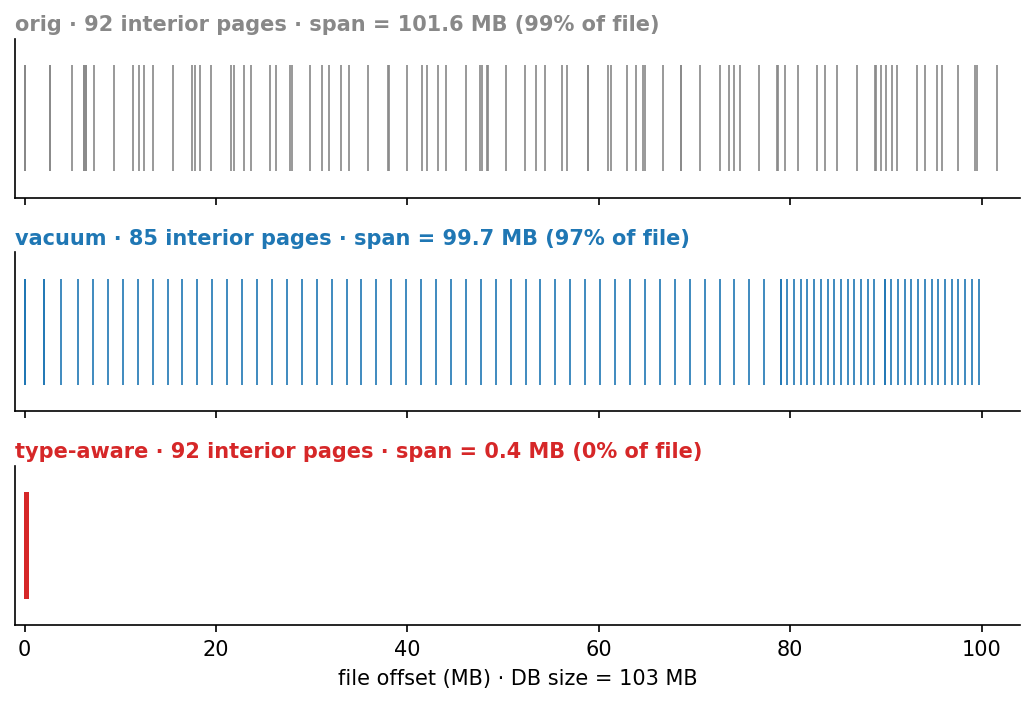
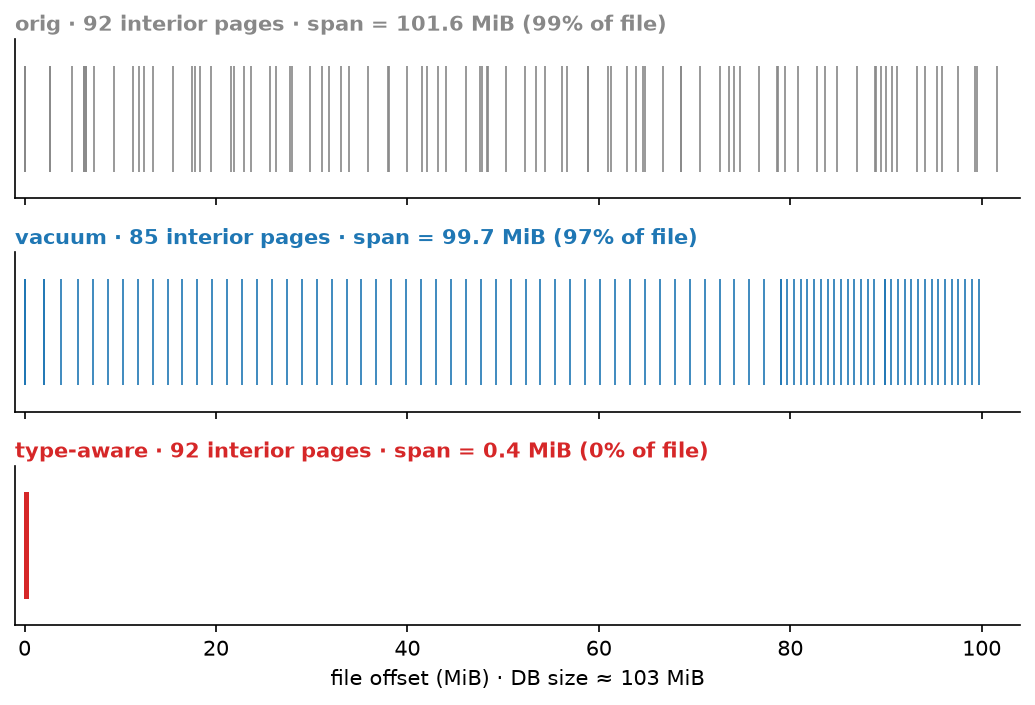
Close numerical-audit TODOs: DB-size units, learned-Markov CI, drift scope
Resolves the three %TODO(audit) markers; wording/notation only, no
measured value changed.

- DB size standardized to binary units (MiB). Setup carries the precise
  anchor 102.9 MiB (107,851,776 bytes); prose uses ~103 MiB. Figure 1
  regenerated from figures/01_page_distribution.py with MiB axis/labels
  so text and figure no longer disagree 102 vs 103. 10x DB stays ~1 GiB.
- Learned-Markov: drop the resolved "worse on Scattered-Zipf" ranking;
  CIs overlap (-40% vs -51%), so state no statistically resolved ranking
  and no demonstrated advantage over frequency ranking. Values unchanged.
- Drift: scope the 10-15% to the Dump fast-path anchor and note that
  individual latency cells can shift more; "Diagnostics associate this
  drift with SSD internal state and CPU thermal conditions."

diff --git a/main.tex b/main.tex
@@ -125,7 +125,7 @@ This paper presents a frugal, non-intrusive SQLite prefetch framework for server
 
 \textbf{Contribution 3: Non-intrusive, deployment-compatible toolchain.} Our framework operates entirely at the application layer using only standard POSIX interfaces (\texttt{mmap}, \texttt{mincore}, \texttt{madvise}). It requires no modification to SQLite, the OS kernel, the FTL, or the serverless runtime, and does not require privileged access or root permissions. These properties make the framework compatible with the execution restrictions of production FaaS environments without requiring platform modification or privileged access. [\textit{Addresses Challenge 3: Deployability.}]
 
-\textbf{Rigorous empirical validation.} We validate our framework across six robustness axes: write churn that perturbs page layout (50k mutations across 11 checkpoints), sub-working-set RAM pressure that triggers page reclaim, multi-process cache sharing with cadence-based re-warm, workload instantiation with 10 independent random seeds and bootstrap 95\% confidence intervals, database scaling by a factor of 10 (102 MB to approximately 1 GiB), and static-plan staleness under a moving read hotspot. We further establish cross-platform effectiveness portability to a genuine FaaS runtime: on Apache OpenWhisk every strongly-effective workstation strategy remains effective (41 of 41 first-query cells) across all 65 covered cells, with per-cell effectiveness ranks correlating at Spearman $\rho\approx0.76$ to $0.81$. This multi-dimensional validation ensures that our headline results are not artifacts of a single workload sample or deployment platform.
+\textbf{Rigorous empirical validation.} We validate our framework across six robustness axes: write churn that perturbs page layout (50k mutations across 11 checkpoints), sub-working-set RAM pressure that triggers page reclaim, multi-process cache sharing with cadence-based re-warm, workload instantiation with 10 independent random seeds and bootstrap 95\% confidence intervals, database scaling by a factor of 10 ($\sim$103 MiB to approximately 1 GiB), and static-plan staleness under a moving read hotspot. We further establish cross-platform effectiveness portability to a genuine FaaS runtime: on Apache OpenWhisk every strongly-effective workstation strategy remains effective (41 of 41 first-query cells) across all 65 covered cells, with per-cell effectiveness ranks correlating at Spearman $\rho\approx0.76$ to $0.81$. This multi-dimensional validation ensures that our headline results are not artifacts of a single workload sample or deployment platform.
 
 Our results reveal a counter-intuitive but robust finding. The strategy that minimizes first-query latency the most, a cache-dump approach that reloads the entire resident working set, regresses end-to-end performance by roughly an order of magnitude on the broad-working-set workloads Scattered-Zipf and Uniform-100K, where its deliver overhead of 0.8 to 7 ms dominates the response time; the narrow small-working-set workload Tail-Mixed is the exception. In contrast, a frugal prefetch of the interior navigation skeleton, with an aggregate footprint under 2 MB, delivers consistent, statistically robust warm-process end-to-end improvements across the evaluated pure-hit workloads, and a small hotspot-conditional leaf budget adds incremental value only where a workload is genuinely skewed. This work is, to the best of our knowledge, the first to separate open, delivery, and first-query terms and align them with integrated and standalone deployment boundaries in SQLite-backed serverless cold starts, with an application-layer design that operates within the execution constraints of restricted FaaS environments without privileged platform changes.
 
@@ -167,7 +167,7 @@ In summary, libprefetch establishes that application-directed prefetching is a p
 
 \subsection{SQLite and mmap: Virtual-Memory Assisted Caching}\label{sec:mmap}
 
-The use of memory-mapped I/O (\texttt{mmap}) in database systems has been the subject of sustained debate over the past decade. Crotty et al. \cite{Crotty2022} deliver a forceful critique of using \texttt{mmap} as a replacement for a traditional DBMS buffer pool. They identify four fundamental problems: transaction atomicity and crash recovery become impossible to guarantee because \texttt{mmap}'s writeback timing is outside DBMS control; I/O behavior becomes unpredictable; error handling is difficult because memory-mapped I/O errors manifest as signals; and performance scalability suffers, particularly on fast NVMe devices where the \texttt{mmap} path cannot match user-space I/O management. Their experimental analysis demonstrates clear performance limitations of \texttt{mmap} relative to user-space I/O control. However, they explicitly note a narrow set of conditions under which \texttt{mmap} is defensible: read-only workloads where the working set fits in memory. Our cold-start prefetch scenario falls squarely within this exception: the first query is read-only, and our reference database (102 MB) is well within main memory on our experimental platform. More broadly, as we demonstrate in Section~\ref{sec:evaluation}, our frugal hotset (under 2 MB) fits comfortably within even the most constrained serverless memory limits. Our cgroup RAM pressure experiments further stress this condition, showing that our targeted hotset maintains 100\% delivery even under sub-working-set memory caps, while cache-dump approaches collapse.
+The use of memory-mapped I/O (\texttt{mmap}) in database systems has been the subject of sustained debate over the past decade. Crotty et al. \cite{Crotty2022} deliver a forceful critique of using \texttt{mmap} as a replacement for a traditional DBMS buffer pool. They identify four fundamental problems: transaction atomicity and crash recovery become impossible to guarantee because \texttt{mmap}'s writeback timing is outside DBMS control; I/O behavior becomes unpredictable; error handling is difficult because memory-mapped I/O errors manifest as signals; and performance scalability suffers, particularly on fast NVMe devices where the \texttt{mmap} path cannot match user-space I/O management. Their experimental analysis demonstrates clear performance limitations of \texttt{mmap} relative to user-space I/O control. However, they explicitly note a narrow set of conditions under which \texttt{mmap} is defensible: read-only workloads where the working set fits in memory. Our cold-start prefetch scenario falls squarely within this exception: the first query is read-only, and our reference database ($\sim$103 MiB) is well within main memory on our experimental platform. More broadly, as we demonstrate in Section~\ref{sec:evaluation}, our frugal hotset (under 2 MB) fits comfortably within even the most constrained serverless memory limits. Our cgroup RAM pressure experiments further stress this condition, showing that our targeted hotset maintains 100\% delivery even under sub-working-set memory caps, while cache-dump approaches collapse.
 
 Critically, our use of \texttt{mmap} is fundamentally different from the DBMS-as-substrate scenario that Crotty et al. critique. We do not use \texttt{mmap} as a buffer pool replacement; SQLite's own pager and B+tree manage transaction semantics, caching, and recovery. Instead, we use \texttt{mmap} exclusively as a lightweight prefetch hint channel: \texttt{mmap} establishes the read-only mapping, \texttt{mincore} queries page residency in the OS page cache, and \texttt{madvise(MADV\_WILLNEED)} issues prefetch hints to the OS. This is an application-layer tool that does not interfere with SQLite's storage management. The \texttt{mmap} path also offers a practical advantage in serverless environments: by avoiding user-space data copying, it reduces memory footprint at a time when every megabyte counts.
 
@@ -217,9 +217,9 @@ Learned prefetch~\cite{Chen2021,Yi2026} & $\checkmark$* & $\times$ & $\times$ \\
 
 \subsection{B+tree Storage and Page Types}\label{sec:btree}
 
-SQLite stores an entire database in a single file, organized internally as fixed-size pages of 4 KB. Each logical table or index corresponds to one B+tree. Pages are classified into two roles: \textit{interior pages} store keys and child pointers, while \textit{leaf pages} contain the actual row data or index entries. The architecture is detailed in the authoritative SQLite evaluation by Gaffney et al.~\cite{Gaffney2022}. In our reference database of 600,000 rows (102 MB), there are 92 interior pages, which is 51 table interior and 41 index interior, totaling 368 KB and 26,239 leaf pages. A subtle but important detail is that SQLite page 1 holds the database header and the root of the \texttt{sqlite\_master} schema B+tree; the root page of each user table is stored in the \texttt{rootpage} field of \texttt{sqlite\_master} and is typically a low page number, not necessarily page 1.
+SQLite stores an entire database in a single file, organized internally as fixed-size pages of 4 KB. Each logical table or index corresponds to one B+tree. Pages are classified into two roles: \textit{interior pages} store keys and child pointers, while \textit{leaf pages} contain the actual row data or index entries. The architecture is detailed in the authoritative SQLite evaluation by Gaffney et al.~\cite{Gaffney2022}. In our reference database of 600,000 rows ($\sim$103 MiB), there are 92 interior pages, which is 51 table interior and 41 index interior, totaling 368 KB and 26,239 leaf pages. A subtle but important detail is that SQLite page 1 holds the database header and the root of the \texttt{sqlite\_master} schema B+tree; the root page of each user table is stored in the \texttt{rootpage} field of \texttt{sqlite\_master} and is typically a low page number, not necessarily page 1.
 
-The structural arithmetic that follows from standard B+tree fanout is simple but consequential: interior pages constitute only 0.35\% of the database (368 KB of 102 MB), yet every query must traverse from root to leaf, and thus every query requires at least the interior pages along its path. For a single point query, only the pages on one root-to-leaf path approximately the tree height, typically 3 to 4 pages must reside in memory. Over a full workload, the accumulated set of interior pages that are visited converges to the complete set of 92. This distinction between a single query's path and the full workload's interior set is critical: it explains why a frugal prefetch can target only a few pages for a specific query, while a workload-aware strategy might need the full interior skeleton. This structural fact is not a novel discovery, it is a direct consequence of B+tree fanout arithmetic but it provides the theoretical foundation for our targeted prefetch approach: the pages that dominate cold-start cost are both few in number and universally required.
+The structural arithmetic that follows from standard B+tree fanout is simple but consequential: interior pages constitute only 0.35\% of the database (368 KB of $\sim$103 MiB), yet every query must traverse from root to leaf, and thus every query requires at least the interior pages along its path. For a single point query, only the pages on one root-to-leaf path approximately the tree height, typically 3 to 4 pages must reside in memory. Over a full workload, the accumulated set of interior pages that are visited converges to the complete set of 92. This distinction between a single query's path and the full workload's interior set is critical: it explains why a frugal prefetch can target only a few pages for a specific query, while a workload-aware strategy might need the full interior skeleton. This structural fact is not a novel discovery, it is a direct consequence of B+tree fanout arithmetic but it provides the theoretical foundation for our targeted prefetch approach: the pages that dominate cold-start cost are both few in number and universally required.
 
 \subsection{Cold-Start Mechanics}\label{sec:coldstart-mechanics}
 
@@ -372,7 +372,7 @@ After cache clearing and before the first query executes, our framework issues \
 
 We organize the strategy space around two independent selection levers. The first lever, \textit{page-type awareness}, exploits the structural invariant of SQLite's B+tree: interior pages are few in number, universally required for any query, and together constitute only 368 KB (0.35\%) of the database. Rather than predicting future accesses from past behavior, we deduce that any query must traverse the interior skeleton, so prefetching these pages eliminates the dominant source of cold-start page faults. The second lever, \textit{access-frequency awareness}, observes which pages are actually resident after a workload warmup via \texttt{mincore} and prioritizes the most frequently accessed leaves. These two levers are complementary: page-type awareness provides coverage for uniform workloads with no natural hot set, while access-frequency awareness unlocks additional gains on skewed workloads where a small number of leaves dominate accesses.
 
-Table~\ref{tab:strategies} defines the strategies we evaluate, grouped by their primary selection lever. The hotset sizes are measured on our reference 102 MB database.
+Table~\ref{tab:strategies} defines the strategies we evaluate, grouped by their primary selection lever. The hotset sizes are measured on our reference $\sim$103 MiB database.
 
 % ---------------------------------------------------------------------------
 % Strategy naming: paper short-name (rendered) <-> internal codename (source only,
@@ -428,10 +428,9 @@ Figure~\ref{fig:layout-distribution} visualizes the physical distribution of the
 \begin{figure}[htbp]
 \centering
 \includegraphics[width=1\linewidth]{figures/01_page_distribution.png}
-\caption{Physical distribution of the 92 interior pages under the three evaluated layouts. The default layout (\texttt{Default}) scatters interiors across the entire 102 MB file. VACUUM (\texttt{Vacuum}) does not improve clustering. The type-aware rewriter (\texttt{Clustered}) clusters all interiors within the first 400 KB of the file.}
+\caption{Physical distribution of the 92 interior pages under the three evaluated layouts. The default layout (\texttt{Default}) scatters interiors across the entire $\sim$103 MiB file. VACUUM (\texttt{Vacuum}) does not improve clustering. The type-aware rewriter (\texttt{Clustered}) clusters all interiors within the first 400 KB of the file.}
 \label{fig:layout-distribution}
 \end{figure}
-%TODO(audit): Fig.~1 axis label rounds DB size to 103 MB while caption/body say 102 MB; both round 102.857 MiB (107,851,776 B). Reconcile axis to 102 MB or caption to 103 MB -- figure regeneration required, not auto-resolvable here. See PAPER_NUMERICAL_AUDIT.md item 2.
 
 It is important to be precise about the role of \texttt{Clustered} in our framework. Clustering interior pages at the file head is a double-edged sword. The benefit is that it enables structural prefetch strategies, such as \texttt{Skel-N}, to cover the critical interior set with a single range hint. The cost is that relocating interiors to the file head pushes leaf pages to higher offsets, which raises the no-prefetch baseline for workloads that are dominated by cold leaf faults. (A production system, \texttt{sqlite\_web\_vfs}'s \texttt{.dbi} side file~\cite{SqliteWebVfs}, sidesteps this displacement by copying navigation-critical pages rather than reordering them in place; we return to this in Section~\ref{sec:eval-attribution}.) In our Scattered-Zipf/Uniform-100K/Tail-Mixed workload matrix, the best end-to-end performance consistently occurs with the default layout (\texttt{Default}) combined with access-pattern prefetching (\texttt{Skel} or \texttt{Skel+K}); \texttt{Clustered} does not outperform \texttt{Default} in any measured cell. The type-aware layout is therefore a negative result under our workloads, useful only in the narrow scenario where prefetching will definitely be deployed, structural targeting is the only available mechanism (for example, when no access-pattern observation is possible), and the workload is sufficiently skewed that the interior prefetch gain outweighs the leaf-offset penalty. We provide the full per-cell comparison and the precise net-win conditions in Section~\ref{sec:evaluation}. This honest assessment aligns with the framing in Section~\ref{sec:contribution}, where we introduced the layout rewriter as a design alternative we evaluated and found to be negative, rather than as a recommended deployment default.
 
@@ -449,7 +448,7 @@ All experiments run on a single bare-metal commodity machine: an AMD Ryzen 9950X
 
 \subsection{Reference Database}\label{sec:refdb}
 
-All experiments use a fixed reference database with a single table, \texttt{items(id INTEGER PRIMARY KEY, k1 INTEGER, k2 INTEGER, payload BLOB(100))}, and a secondary index on \texttt{(k1, k2)}. The database contains 600,000 rows, occupies approximately 102 MB, and uses 4 KB pages. The page composition, including the 92 interior pages and 26,239 leaf pages, is detailed in Section~\ref{sec:btree}. Three layout variants share the same logical content but differ in physical page arrangement: the default layout (\texttt{Default}) and the type-aware layout (\texttt{Clustered}) each contain 26,331 pages; the \texttt{VACUUM} layout (\texttt{Vacuum}) contains 25,613 pages. A 10$\times$ scaled variant with 6,000,000 rows and 263,991 pages ($\sim$1 GiB) is used in the size-scaling experiments (Section~\ref{sec:evaluation}).
+All experiments use a fixed reference database with a single table, \texttt{items(id INTEGER PRIMARY KEY, k1 INTEGER, k2 INTEGER, payload BLOB(100))}, and a secondary index on \texttt{(k1, k2)}. The database contains 600,000 rows, occupies 102.9 MiB (107{,}851{,}776 bytes), and uses 4 KB pages. The page composition, including the 92 interior pages and 26,239 leaf pages, is detailed in Section~\ref{sec:btree}. Three layout variants share the same logical content but differ in physical page arrangement: the default layout (\texttt{Default}) and the type-aware layout (\texttt{Clustered}) each contain 26,331 pages; the \texttt{VACUUM} layout (\texttt{Vacuum}) contains 25,613 pages. A 10$\times$ scaled variant with 6,000,000 rows and 263,991 pages ($\sim$1 GiB) is used in the size-scaling experiments (Section~\ref{sec:evaluation}).
 
 \subsection{Workloads}\label{sec:workloads}
 
@@ -692,8 +691,7 @@ Two prior-art arms cited in Section~\ref{sec:related} remain, each isolating a d
 
 \textbf{Delivery order (libprefetch).} The competitive baselines above vary the prefetch \emph{set} at a fixed delivery order; the core contribution of libprefetch~\cite{VanDeBogart2009} is the opposite, varying delivery \emph{order} (C-LOOK offset sorting) at a fixed set. We reproduce it as an ordering-only comparison: two arms deliver the identical $\sim$18\,MB working set (whose sorted-order page set is identical to \texttt{Dump}), one in ascending file-offset order (\texttt{LP-sorted}), one shuffled (\texttt{LP-shuf}). On NVMe the ordering penalty survives only in the deliver term: synchronous \texttt{pread} delivery is $10$ to $16\times$ slower shuffled than sorted ($15.6\times$ Scattered-Zipf, $15.1\times$ Uniform-100K, $10.5\times$ Tail-Mixed), hundreds of milliseconds of avoidable serialized transfer. First-query latency is essentially unchanged between the two orderings (a warm control: both arms deliver the same pages); the entire ordering effect falls in the deliver term, orders of magnitude larger than any first-query difference. The penalty is specific to synchronous \texttt{pread}, which serializes the transfer; asynchronous \texttt{fadvise} dispatch, which only hands the kernel a hint, shows no ordering effect (deliver ratio $\approx 1.0$ on all three workloads). Without a block-level trace we make no device-mechanism claim beyond this synchronous/asynchronous split. libprefetch is thus orthogonal to our set-selection contribution: a delivery-scheduling optimization whose only NVMe residue is a deliver-term cost that leaves first-query latency untouched.
 
-%TODO(audit): L692 comparative "worse on Scattered-Zipf (-40% vs -51%)" -- the 95% CIs OVERLAP (learned [-43.2,-36.0] vs same-budget freq/hot-leaf [-65.5,-35.7]). By the paper's OWN overlapping-CI tie rule this is a statistical TIE, not "worse". Author decision needed to soften. See PAPER_NUMERICAL_AUDIT.md item 1. (NEEDS_QUALIFICATION; numbers themselves PASS.)
-\textbf{Learned page-transition prefetching (Chen lineage).} The second arm is a learned prefetcher in the lineage of Chen et al.~\cite{Chen2021}: a first-order Markov page-transition model that computes finite-horizon expected page visits from the B$^+$tree root and prefetches the top-$N$. We evaluate it under leave-one-seed-out (LOSO) cross-validation across the 10 workload seeds (train on nine, test on the held-out seed) so no test trace informs its own prefetch set. At matched footprint it reduces cold first-query latency by $-39.6\%$ (Scattered-Zipf), $-36.6\%$ (Uniform-100K), and $-65.4\%$ (Tail-Mixed), a $-37\%$ to $-69\%$ range across cells with every 95\% CI excluding zero, at $100\%$ delivery on verified-cold caches. It ties footprint-matched frequency ranking and targeted prefetch on Uniform-100K and Tail-Mixed (overlapping CIs) but is worse on Scattered-Zipf ($-40\%$ versus $-51\%$ for same-budget frequency-ranked and hot-leaf arms): the learned transition model does not beat plain frequency ranking where the access distribution is broad, and matches it where the distribution is concentrated. (An earlier single-fold analysis reported a more optimistic held-out figure; the honest LOSO mean supersedes it.) These two arms therefore reinforce the broader lesson: neither delivery-order scheduling nor a learned transition model outperforms a small, soundly-selected prefetch set.
+\textbf{Learned page-transition prefetching (Chen lineage).} The second arm is a learned prefetcher in the lineage of Chen et al.~\cite{Chen2021}: a first-order Markov page-transition model that computes finite-horizon expected page visits from the B$^+$tree root and prefetches the top-$N$. We evaluate it under leave-one-seed-out (LOSO) cross-validation across the 10 workload seeds (train on nine, test on the held-out seed) so no test trace informs its own prefetch set. At matched footprint it reduces cold first-query latency by $-39.6\%$ (Scattered-Zipf), $-36.6\%$ (Uniform-100K), and $-65.4\%$ (Tail-Mixed), a $-37\%$ to $-69\%$ range across cells with every 95\% CI excluding zero, at $100\%$ delivery on verified-cold caches. It ties footprint-matched frequency ranking and targeted prefetch on Uniform-100K and Tail-Mixed (overlapping CIs). On Scattered-Zipf, the learned model reaches about $-40\%$, compared with roughly $-51\%$ for the same-budget frequency-ranked and hot-leaf arms; their confidence intervals overlap, so we do not claim a statistically resolved ranking. Importantly, the learned transition model provides no demonstrated advantage over the simpler frequency-ranked baseline. (An earlier single-fold analysis reported a more optimistic held-out figure; the honest LOSO mean supersedes it.) These two arms therefore reinforce the broader lesson: neither delivery-order scheduling nor a learned transition model outperforms a small, soundly-selected prefetch set.
 
 We now return to the physical layout rewriter (\texttt{Clustered}) introduced in Section~\ref{sec:layout}. Our evaluation finds no scenario in which \texttt{Clustered} outperforms the default layout (\texttt{Default}) when combined with access-pattern prefetching. The best warm e2e on each workload is achieved with \texttt{Default} plus access-pattern targeting: Scattered-Zipf 452 \textmu s vs \texttt{Clustered} 523 \textmu s, Uniform-100K 509 \textmu s vs \texttt{Clustered} 701 \textmu s, and (from the tie-break-corrected batch) Tail-Mixed \texttt{Skel+10} 265 \textmu s vs \texttt{Clustered} 317 \textmu s. Each orig-vs-\texttt{Clustered} pair is same-batch; the Tail-Mixed pair uses the corrected \texttt{tiebreak\_fix} values (orig $-75\%$, \texttt{Clustered} $-63\%$). The type-aware layout produces slightly larger percentage improvements for structural prefetching (on Scattered-Zipf, \texttt{Skel-92} first-query goes from $-30\%$ to $-32\%$), but this is an artifact: the pread first-query floor under \texttt{Clustered} is 187 \textmu s versus 187 \textmu s under \texttt{Default}; the larger percentage stems entirely from a raised baseline (523 to 658 \textmu s, $+26\%$), not from a lower absolute latency. Clustering interiors at the file head pushes leaves to higher offsets, raising the cold-leaf-fault baseline; the absolute benefit of interior prefetching does not improve. Notably, a production system arrives at the same conclusion from the
 opposite direction: the \texttt{.dbi} side file (Section~\ref{sec:layout}) avoids in-place reordering entirely, sidestepping precisely the displacement penalty we quantify here. The narrow conditions under which \texttt{Clustered} could be net-positive, (i) prefetching is definitely deployed, (ii) only structural prefetching is available (no access-pattern observation), and (iii) the workload is sufficiently skewed, are not simultaneously met in any of our Scattered-Zipf/Uniform-100K/Tail-Mixed cells. We therefore recommend the default layout (\texttt{Default}) for production use, and treat \texttt{Clustered} as a negative result under our evaluated workloads.
@@ -743,7 +741,7 @@ The methodological lesson from the 10-seed sweep is that single-workload point e
 
 \textbf{Cadence and MAP\_SHARED.} With \texttt{mmap(MAP\_SHARED)}, a single prefetch operation benefits all processes sharing the same OS page cache. A background warmer re-warms the hotset at a configurable cadence. At cadence values of 1 s and 5 s, first-query latency is maintained at 26 \textmu s and 29 \textmu s, respectively; at 30 s or never, it regresses to 281--305 \textmu s, near the no-prefetch baseline. The cadence is a trade-off parameter: reducing cadence maintains warmth at the cost of additional I/O and CPU overhead; increasing cadence saves resources but allows the cache to cool. There is no single best cadence; the operator selects a point on the frontier based on the workload's query interval.
 
-\textbf{Database size scaling.} We scale the reference database by $10\times$ to $\sim$1 GiB (6 million rows, 263,991 pages) and rerun the experiment on a separate batch. The first-query improvement is size-robust: across the 18 (workload $\times$ strategy) cells, all cells show the same direction of improvement as on 102 MB, and all 1 GiB cells are robust (CI excludes zero). The warm-process e2e sensitivity is concentrated on Tail-Mixed for dump-style strategies: \texttt{Dump} goes from $-9\%$ on 102 MB to $+139\%$ on 1 GiB, and \texttt{Skel+500} goes from $-31\%$ to $+35\%$, as the resident working set for Tail-Mixed expands from 483 to 984 pages, doubling the deliver cost. In contrast, the tie-break-unaffected interior skeleton \texttt{Skel} remains a robust win on Tail-Mixed at both sizes, and the size story is carried by the deliver-cost trend rather than by any corrected leaf-selector magnitude: the cache-dump deliver trap worsens with database size while frugal skeleton prefetch stays effective. (The pre-fix \texttt{Skel+10} figures of $-70\%$/$-68\%$ at 102~MB/1~GiB are diagnostic only; the corrected leaf-selector magnitude was not re-validated across sizes.) The corresponding figure is available in our artifact.
+\textbf{Database size scaling.} We scale the reference database by $10\times$ to $\sim$1 GiB (6 million rows, 263,991 pages) and rerun the experiment on a separate batch. The first-query improvement is size-robust: across the 18 (workload $\times$ strategy) cells, all cells show the same direction of improvement as on $\sim$103 MiB, and all 1 GiB cells are robust (CI excludes zero). The warm-process e2e sensitivity is concentrated on Tail-Mixed for dump-style strategies: \texttt{Dump} goes from $-9\%$ on $\sim$103 MiB to $+139\%$ on 1 GiB, and \texttt{Skel+500} goes from $-31\%$ to $+35\%$, as the resident working set for Tail-Mixed expands from 483 to 984 pages, doubling the deliver cost. In contrast, the tie-break-unaffected interior skeleton \texttt{Skel} remains a robust win on Tail-Mixed at both sizes, and the size story is carried by the deliver-cost trend rather than by any corrected leaf-selector magnitude: the cache-dump deliver trap worsens with database size while frugal skeleton prefetch stays effective. (The pre-fix \texttt{Skel+10} figures of $-70\%$/$-68\%$ at $\sim$103~MiB/1~GiB are diagnostic only; the corrected leaf-selector magnitude was not re-validated across sizes.) The corresponding figure is available in our artifact.
 
 \subsection{Cross-Platform Effectiveness Portability}\label{sec:eval-portability}
 
@@ -862,8 +860,7 @@ Three principles summarize the takeaways. First, the cache-dump strategy (\textt
 
 All experiments run on a single commodity x86 machine with a consumer-grade Gen4 NVMe SSD and a single Linux kernel version. Absolute microsecond latencies depend on the hardware, kernel, and runtime. The cost-accounting methodology is intended to transfer to platforms sharing the same warm-process, cold-data model. Whether the relative ordering of strategies carries over to a genuine FaaS runtime is an empirical question we test directly with an Apache OpenWhisk deployment (Section~\ref{sec:eval-portability}). Across every workstation--OpenWhisk cell we cover (65 of 65), the relative effectiveness ordering is preserved: every strategy that is strongly effective on the workstation (relative first-query reduction $R_{\text{ws}}\ge0.30$) is also effective under OpenWhisk (41 of 41 first-query cells), and the two platforms' per-cell effectiveness ranks correlate at Spearman $\rho\approx0.76$ to $0.81$. This is a relative-effectiveness result, accounted without pooling across seven immutable deployment campaigns; the OpenWhisk standalone paired first-query is a deployment-feasibility and relative-effectiveness signal, not an absolute strategy-performance estimate. In particular, our measurements characterize the local-storage tier that production object-storage architectures interpose as a cache layer (e.g., Cloudflare D1's local-disk caching over R2~\cite{CloudflareD1}); the purely remote tier replaces the OS page cache with VFS-level range requests, changing the mechanism while preserving the dependent-fault-chain structure and multiplying per-fault cost by three to four orders of magnitude. This FaaS-runtime validation runs on a separate commodity x86 host with its own consumer NVMe and a different Linux kernel, so it exercises the container-based runtime together with its host rather than isolating the runtime dimension or establishing hardware portability. A small number of per-cell disagreements (9 of 55 first-query cells) involve strategies that are neutral on at least one platform---including the single strategy that is harmful under OpenWhisk, \texttt{Skel-5} on Hashed-Hotspot, which is itself workstation-neutral and therefore not a regression of a workstation-effective strategy---and a few position-sensitive cells are reported as balanced-batch descriptive estimates reflecting pair-position and short-lived execution-storage state rather than clean causal effects. Systematic portability across diverse hardware classes and to commercial FaaS providers remains future work.
 
-%TODO(audit): drift CAUSE is supported (REPORT.md:1312; CANONICAL_SWAP.md:9) -- keep, this is NOT a causal overclaim. Scope nuance only: 10--15\% is the Dump fast-path anchor figure; general per-cell cross-session drift can reach 30--70\% because the offset is additive (a larger \% on fast paths). Consider stating this scope. See PAPER_NUMERICAL_AUDIT.md item 3.
-Measurement batches exhibit session-to-session absolute drift of approximately 10\% to 15\%, attributable to SSD internal state and CPU thermal conditions. We monitor this drift using the \texttt{Dump} anchor, whose first-query latency is independent of the workload key distribution, and anchor all cross-strategy comparisons to same-batch baselines; cross-batch absolute comparisons are never made.
+Our stable \texttt{Dump} fast-path anchor exhibits approximately 10\% to 15\% session-to-session absolute drift; individual latency cells can shift more substantially across machine-state groups. Diagnostics associate this drift with SSD internal state and CPU thermal conditions. The \texttt{Dump} anchor's first-query latency is independent of the workload key distribution, so we use it to monitor drift and anchor every effect estimate to a same-batch baseline; we never compare absolute latency across independent batches.
 
 The workload coverage spans three distribution families, skew (Scattered-Zipf), uniformity (Uniform-100K), and mixed tail-boundary lookups (Tail-Mixed), with 10-seed sampling to cover within-family variation. It does not cover real-world mixed read-write traces or distribution families beyond these three. The RAM robustness of Tail-Mixed remains deductive rather than empirically measured, because its working set (approximately 1.8 MB) falls below the measurable cgroup pressure floor; constructing a larger working-set variant of Tail-Mixed is future work.
 
